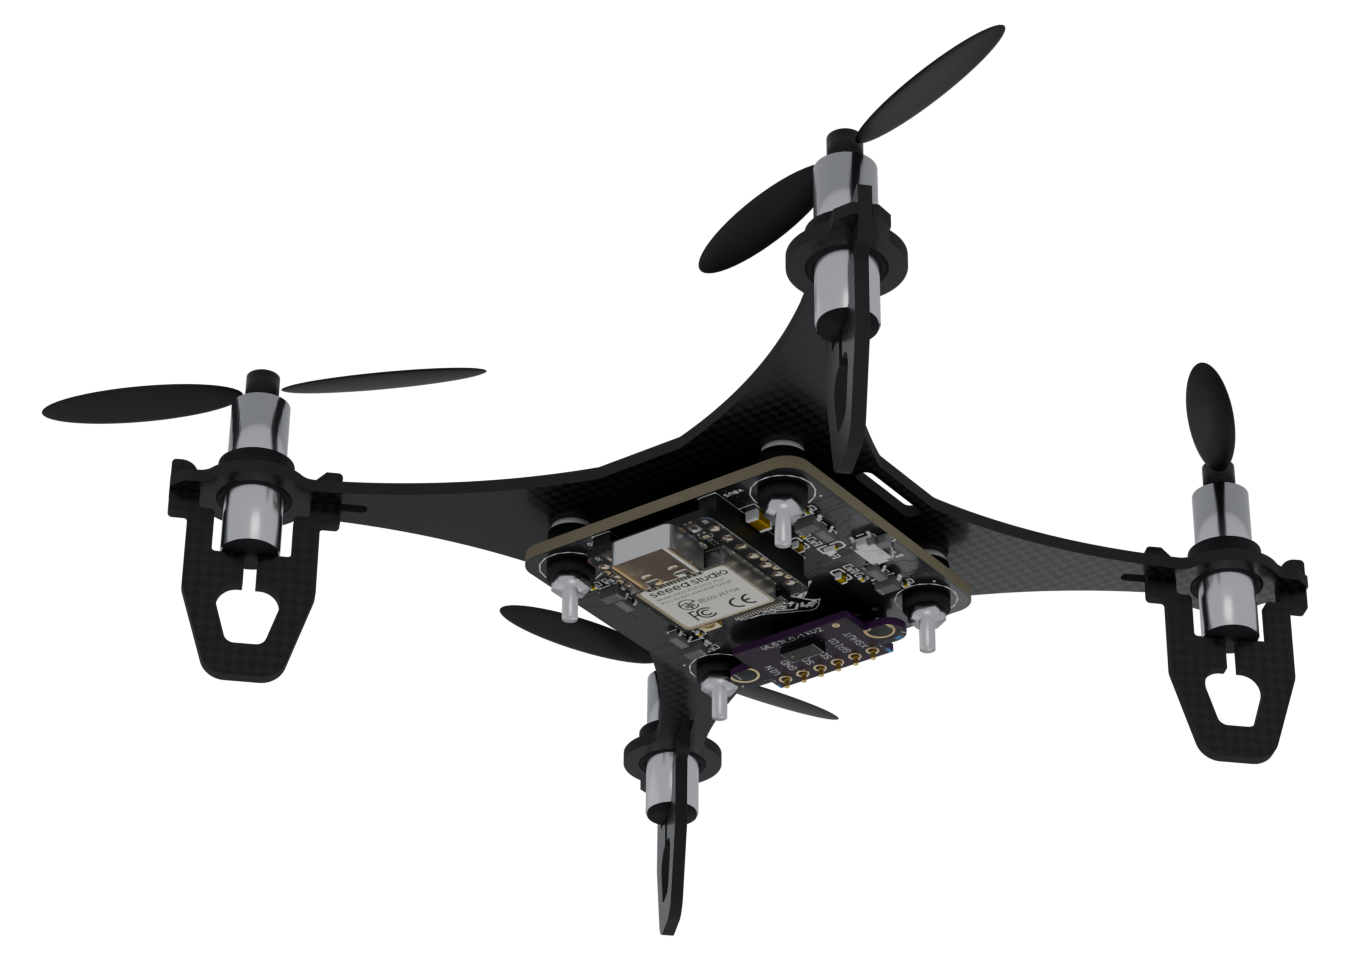
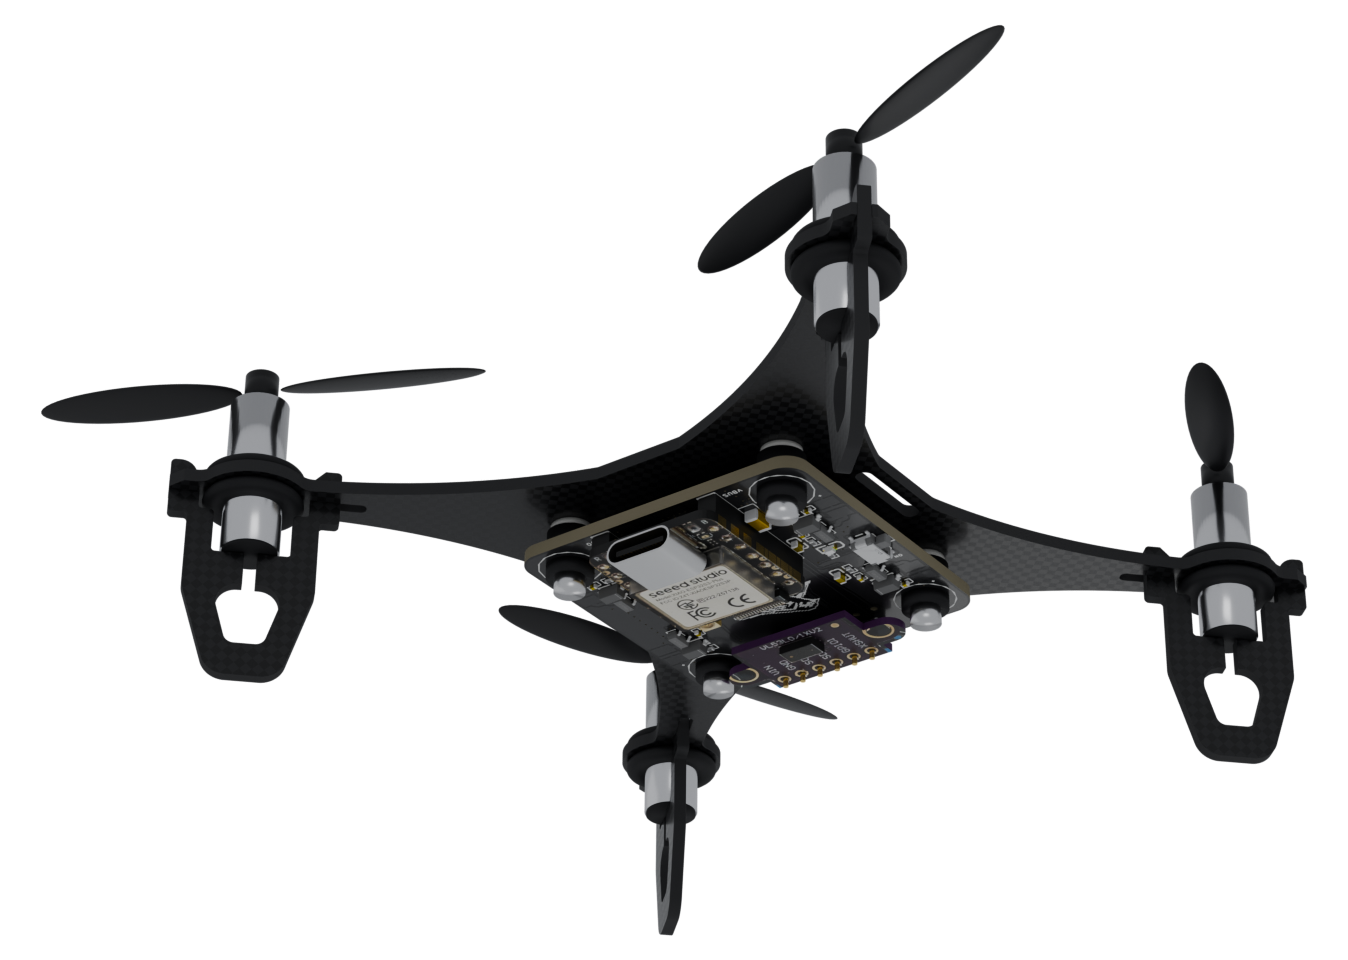
Add an exploded view and correct the mounting stack
The frame README now opens its assembly steps with a numbered
exploded view of the whole drone.

The text and the renders had the flight controller mount upside
down. Each M2 screw goes up from under the board, through the
grommet, washer and frame, and the nylon lock nut sits on top of the
frame. Step 3 now says so, and the two README renders are drawn again
from the same model with the nuts on top, the screw heads under the
board and the double-flanged motor collars.

The battery is held by a nylon cable tie, not a strap: it goes down
one slot, across between the frame and the GY-521, and up the other.
Step 4, the slot row and both parts lists say so. The GY-521 is now
modelled, so the render captions no longer list it as missing.

diff --git a/hardware/frame/README.md b/hardware/frame/README.md
@@ -19,7 +19,7 @@ File: [`sparrow-frame-v1.0.dxf`](sparrow-frame-v1.0.dxf) (units mm, 1:1, every l
 | Leg flex slit | 1.65 mm (the narrowest slot a 1.5 mm end mill can cut) |
 | Leg fit | about 0.01 mm interference at the plate faces; the legs snap on, no glue |
 | Flight-controller holes | 4 x 2.2 mm on a 30.5 x 30.5 mm pattern, for M2 screws |
-| Battery-strap slots | 2.2 x 12 mm at x = +-19.9 mm; the strap only loops around the 1.5 mm edge outside each slot |
+| Battery-strap slots | 2.2 x 12 mm at x = +-19.9 mm, for the cable tie that holds the battery |
 | Leg reach | 23.8 mm below the frame |
 
 The leg slit is required. The two clip notches face each other, so a rigid leg cannot get onto the frame; the legs spread about 1.6 mm while snapping on.
@@ -32,10 +32,14 @@ Send the DXF to a CNC shop that cuts carbon plate. Ask for 1.5 mm 3K carbon fibr
 
 ## Assembly
 
+<img src="../../docs/images/sparrow-exploded.png" width="560" alt="Exploded view of Sparrow, parts numbered 1 to 13 from the top: propellers, motors and motor collars above the motor rings; the battery and four lock nuts above the frame; the legs below its arms; the washers, the flight controller on its silicone grommets with the GY-521 on its frame side, the XIAO ESP32-S3 Plus below it, and the four screws at the bottom">
+
+1 propeller, 2 motor, 3 motor collar (O-type double-flanged cable grommet), 4 battery, 5 M2 nylon lock nut, 6 frame, 7 landing-gear leg, 8 nylon washer, 9 silicone grommet, 10 GY-521, 11 flight controller, 12 XIAO ESP32-S3 Plus, 13 M2 x 14 mm screw. The cable tie, the antenna and the wires are not shown.
+
 1. Snap each landing-gear leg into its arm slot and motor-ring notch. Spread the two prongs slightly until they click over the frame.
 2. Push the motors into the 9 mm rings, each in an O-type double-flanged cable grommet.
-3. Mount the flight controller under the frame. Each corner, from the frame side: M2 x 14 mm screw, frame, 1 mm nylon washer, silicone grommet (the board sits in the grommet's groove), M2 nylon lock nut. Tighten the four corners evenly and stop before the grommets flatten. The washers keep about 4 mm between the frame and the board.
-4. Strap the battery on top of the frame through the two strap slots.
+3. Mount the flight controller under the frame. Each corner, from the ground up: M2 x 14 mm screw with its head under the board, silicone grommet (the board sits in its groove), 1 mm nylon washer, frame, and the M2 nylon lock nut on top of the frame. Tighten the four nuts evenly and stop before the grommets flatten. The washers keep about 4 mm between the frame and the board.
+4. Tie the battery on top of the frame with a nylon cable tie: down through one strap slot, across under the frame between the frame and the GY-521, and up through the other slot.
 5. Keep the WiFi antenna away from the carbon fibre, battery and board. Mount it upright on the outside of a leg.
 
 Motor order and spin, with the nose (the flight controller's USB end) at +y: M3 front right and M1 rear left spin counter-clockwise, M4 rear right and M2 front left spin clockwise (the Crazyflie convention).

diff --git a/README.md b/README.md
@@ -17,7 +17,7 @@ The flight controller (CERN-OHL-S-2.0) and the firmware (GPL-3.0-or-later) are o
   <img src="docs/images/sparrow-3d-bottom.png" width="380" alt="3D render of Sparrow from below: the flight controller on four silicone grommets under the frame, with the XIAO ESP32-S3 and the GY-530 ToF sensor facing the ground">
 </p>
 
-<p align="center"><sub>3D renders; the GY-521 between the flight controller and the frame, the antenna, the battery and the wires are not shown. Photos of the built drone are in <a href="docs/photos/README.md">docs/photos</a>.</sub></p>
+<p align="center"><sub>3D renders; the antenna, the battery and the wires are not shown. Photos of the built drone are in <a href="docs/photos/README.md">docs/photos</a>.</sub></p>
 
 ## Highlights
 
@@ -46,7 +46,7 @@ Sparrow is built from parts sold by common electronics and hobby shops. JLCPCB m
 | 720 coreless brushed motors | 7 x 20 mm, 1 mm shaft; two run clockwise and two counter-clockwise | Jin-Hua Electronics |
 | Propellers | 55 mm for 1 mm shafts, in clockwise and counter-clockwise pairs | Shopee |
 | Battery | 1S LiPo, 400 mAh 20C, PH2.0 plug; about 3.5-4 minutes of flight | Shopee |
-| Mounting parts | O-type double-flanged cable grommets as motor collars (7 mm inside), M2 x 14 mm screws, M2 nylon lock nuts, 2.6 x 5 x 1 mm nylon washers, M2 silicone grommets, a battery strap up to 12 mm wide | Shopee |
+| Mounting parts | O-type double-flanged cable grommets as motor collars (7 mm inside), M2 x 14 mm screws, M2 nylon lock nuts, 2.6 x 5 x 1 mm nylon washers, M2 silicone grommets, a nylon cable tie for the battery | Shopee |
 
 Shops: [JLCPCB](https://jlcpcb.com/), [Jin-Hua Electronics](https://www.jin-hua.com.tw/) and [Shopee](https://shopee.tw/), the last two in Taiwan.
 

diff --git a/README.zh-TW.md b/README.zh-TW.md
@@ -17,7 +17,7 @@ SparrowFlight 是以容易取得的零件為設計前提的小型四軸無人機
   <img src="docs/images/sparrow-3d-bottom.png" width="380" alt="Sparrow 3D 渲染圖，從下方看：飛控板用四顆矽膠防震球掛在機架下，XIAO ESP32-S3 和 GY-530 ToF 感測器朝向地面">
 </p>
 
-<p align="center"><sub>3D 渲染圖，未包含飛控板與機架之間的 GY-521、天線、電池與電線。實機照片見 <a href="docs/photos/README.md">docs/photos</a>。</sub></p>
+<p align="center"><sub>3D 渲染圖，未包含天線、電池與電線。實機照片見 <a href="docs/photos/README.md">docs/photos</a>。</sub></p>
 
 ## 特色
 
@@ -46,7 +46,7 @@ Sparrow 使用一般電子零件與模型零件通路買得到的零件。飛控
 | 720 空心杯有刷馬達 | 7 × 20 mm、軸徑 1 mm；兩顆順時針、兩顆逆時針 | 今華電子 |
 | 槳 | 55 mm、孔徑 1 mm，正反槳成對 | 蝦皮 |
 | 電池 | 1S LiPo 400 mAh 20C、PH2.0 插頭；可飛約 3.5–4 分鐘 | 蝦皮 |
-| 固定件 | O 型雙層護線圈（固定馬達，內徑 7 mm）、M2 × 14 mm 螺絲、M2 尼龍防鬆螺帽、2.6 × 5 × 1 mm 尼龍墊片、M2 矽膠防震球、電池綁帶（寬 12 mm 以內） | 蝦皮 |
+| 固定件 | O 型雙層護線圈（固定馬達，內徑 7 mm）、M2 × 14 mm 螺絲、M2 尼龍防鬆螺帽、2.6 × 5 × 1 mm 尼龍墊片、M2 矽膠防震球、綁電池用的尼龍束線帶 | 蝦皮 |
 
 賣場：[JLCPCB](https://jlcpcb.com/)、[今華電子](https://www.jin-hua.com.tw/)、[蝦皮](https://shopee.tw/)，後兩者在台灣。
 

diff --git a/hardware/flight-controller/README.md b/hardware/flight-controller/README.md
@@ -79,7 +79,7 @@ SCL and SDA are swapped against the Arduino default (`Wire.begin(6, 5)`); this k
 | 55 mm propellers for 1 mm shafts, 2 clockwise and 2 counter-clockwise per drone (buy spares) | 2 pairs |
 | O-type double-flanged cable grommets as motor collars, 7 mm inner diameter, for 9 mm holes | 4 |
 | 1S LiPo 400 mAh with PH2.0 plug, and a PH2.0 pigtail | 1 |
-| Battery strap, up to 12 mm wide (it goes through the frame's 2.2 x 12 mm slots) | 1 |
+| Nylon cable tie for the battery (it goes through the frame's 2.2 x 12 mm slots and between the frame and the GY-521) | 1 |
 | M2 x 14 mm screws, M2 nylon lock nuts, 2.6 x 5 x 1 mm nylon washers, M2 silicone grommets | 4 each |
 | 2.54 mm pin headers (two 1 x 7 for the XIAO if not included, one 1 x 6 for the GY-530) | |
 
